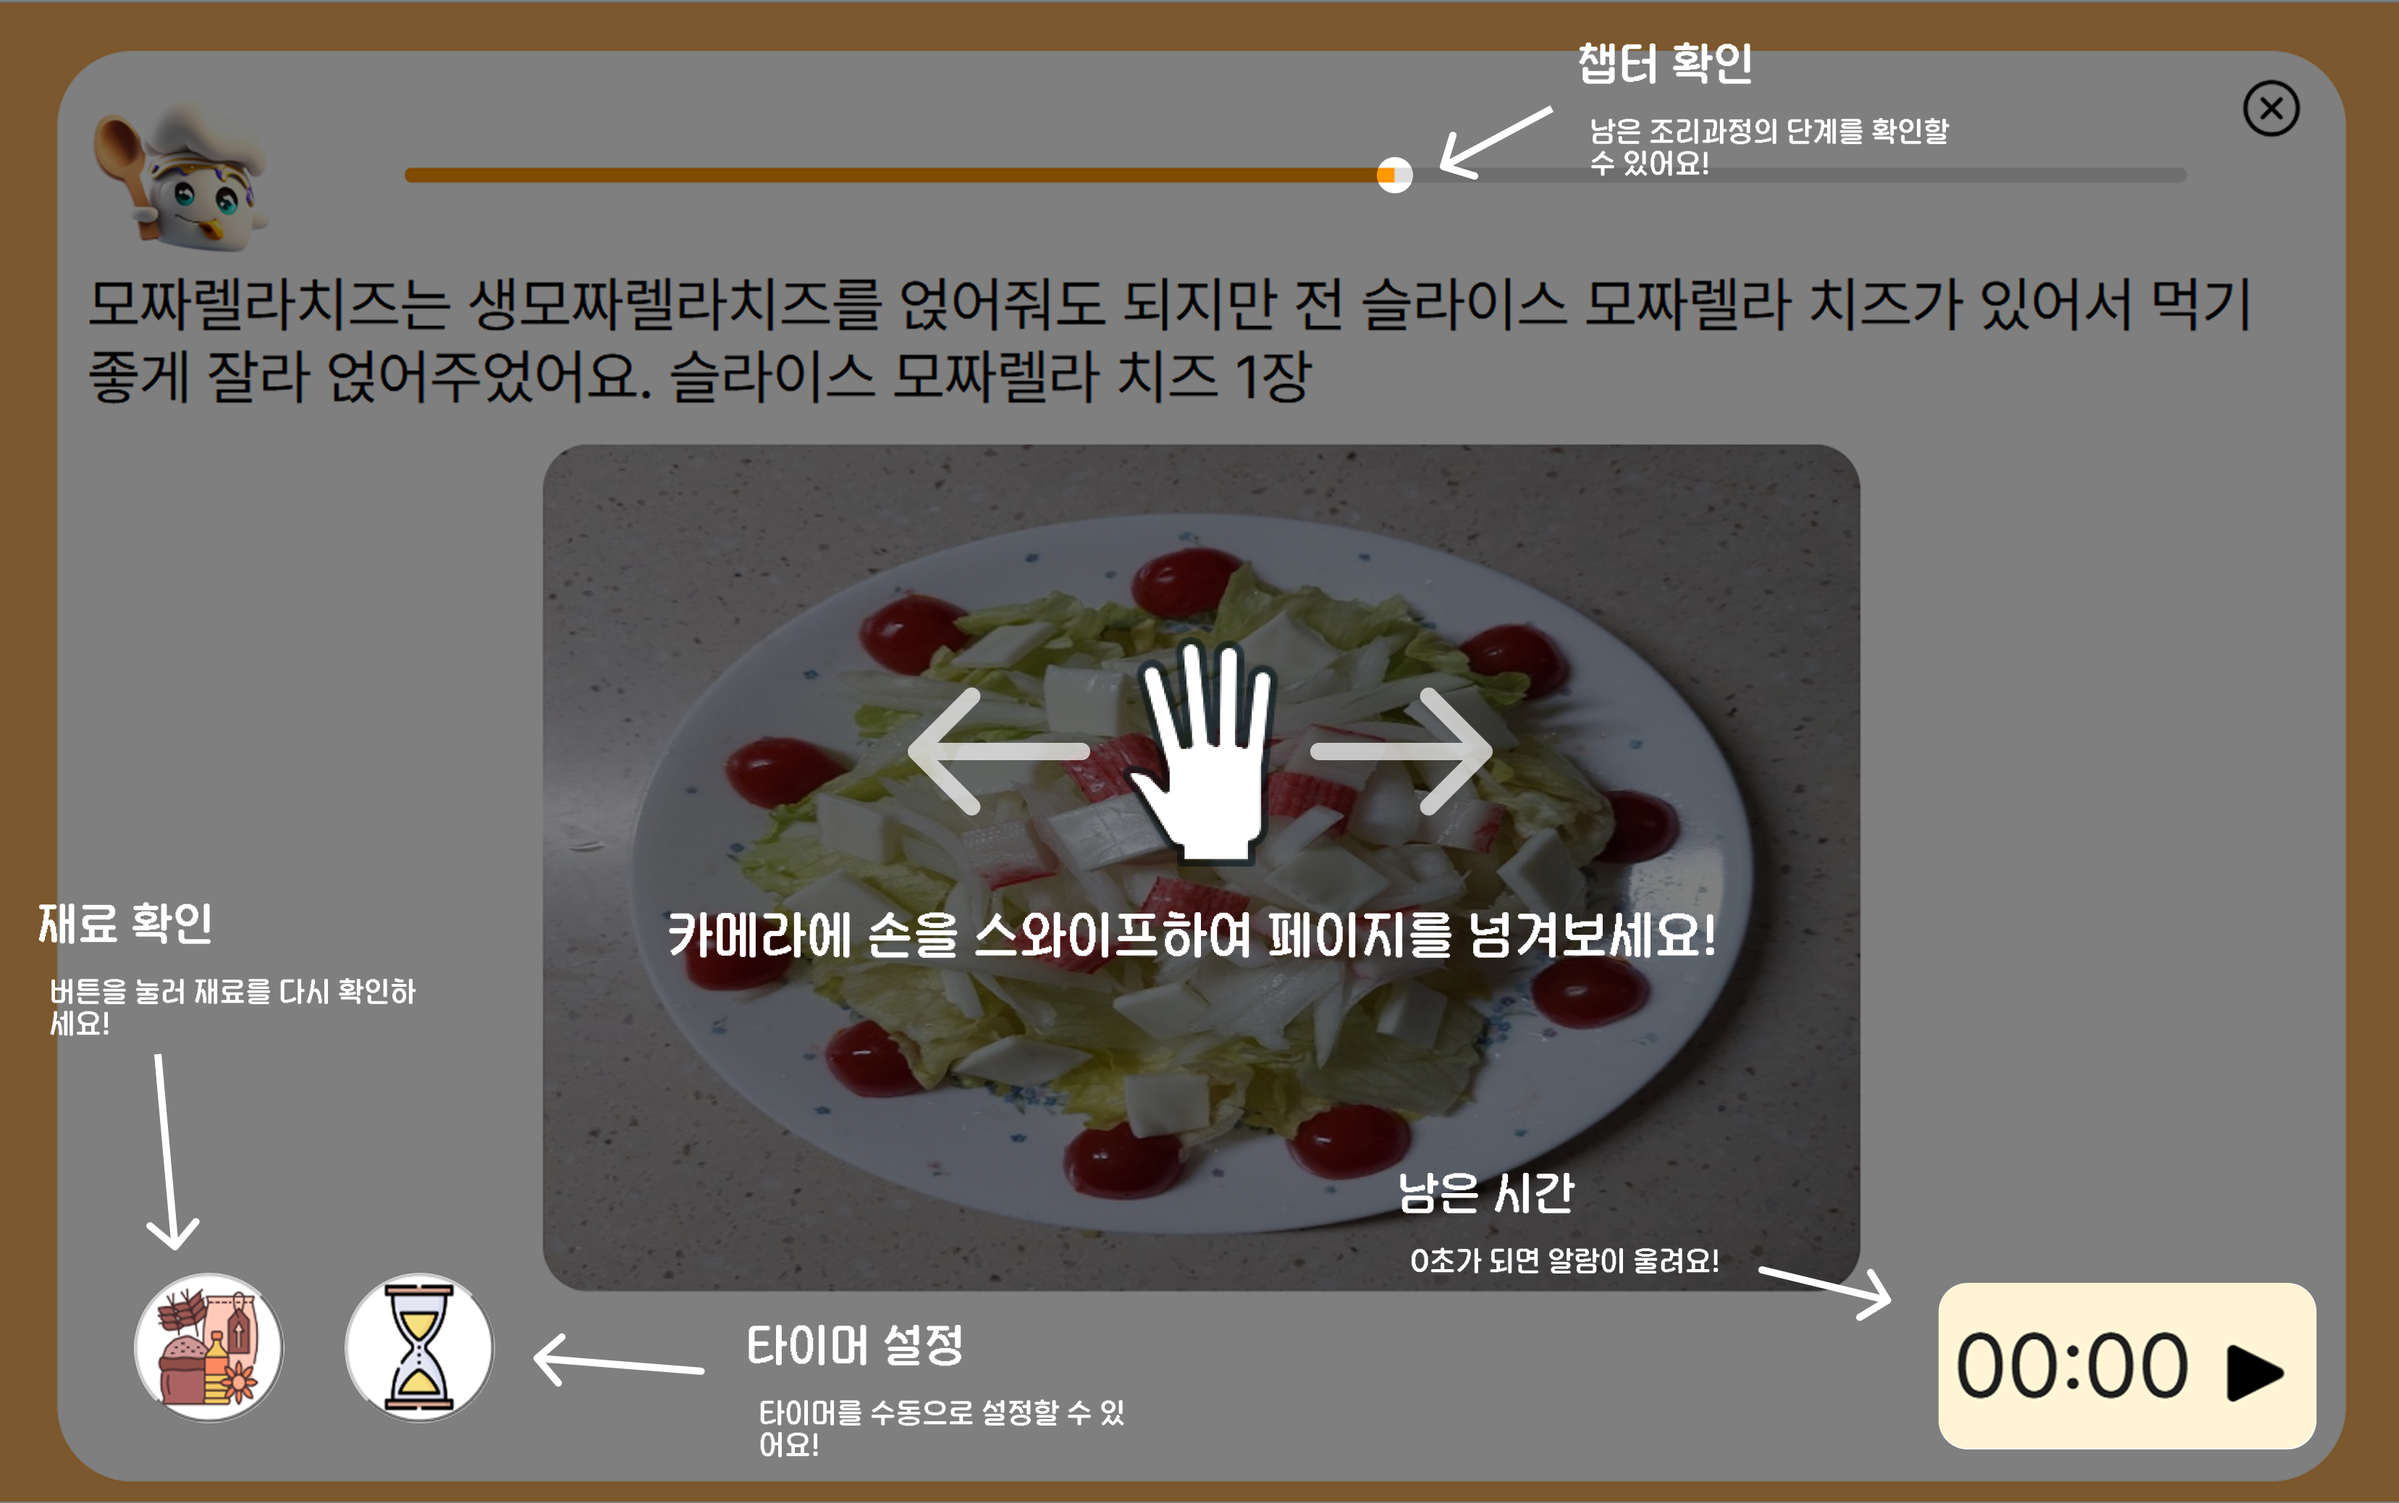
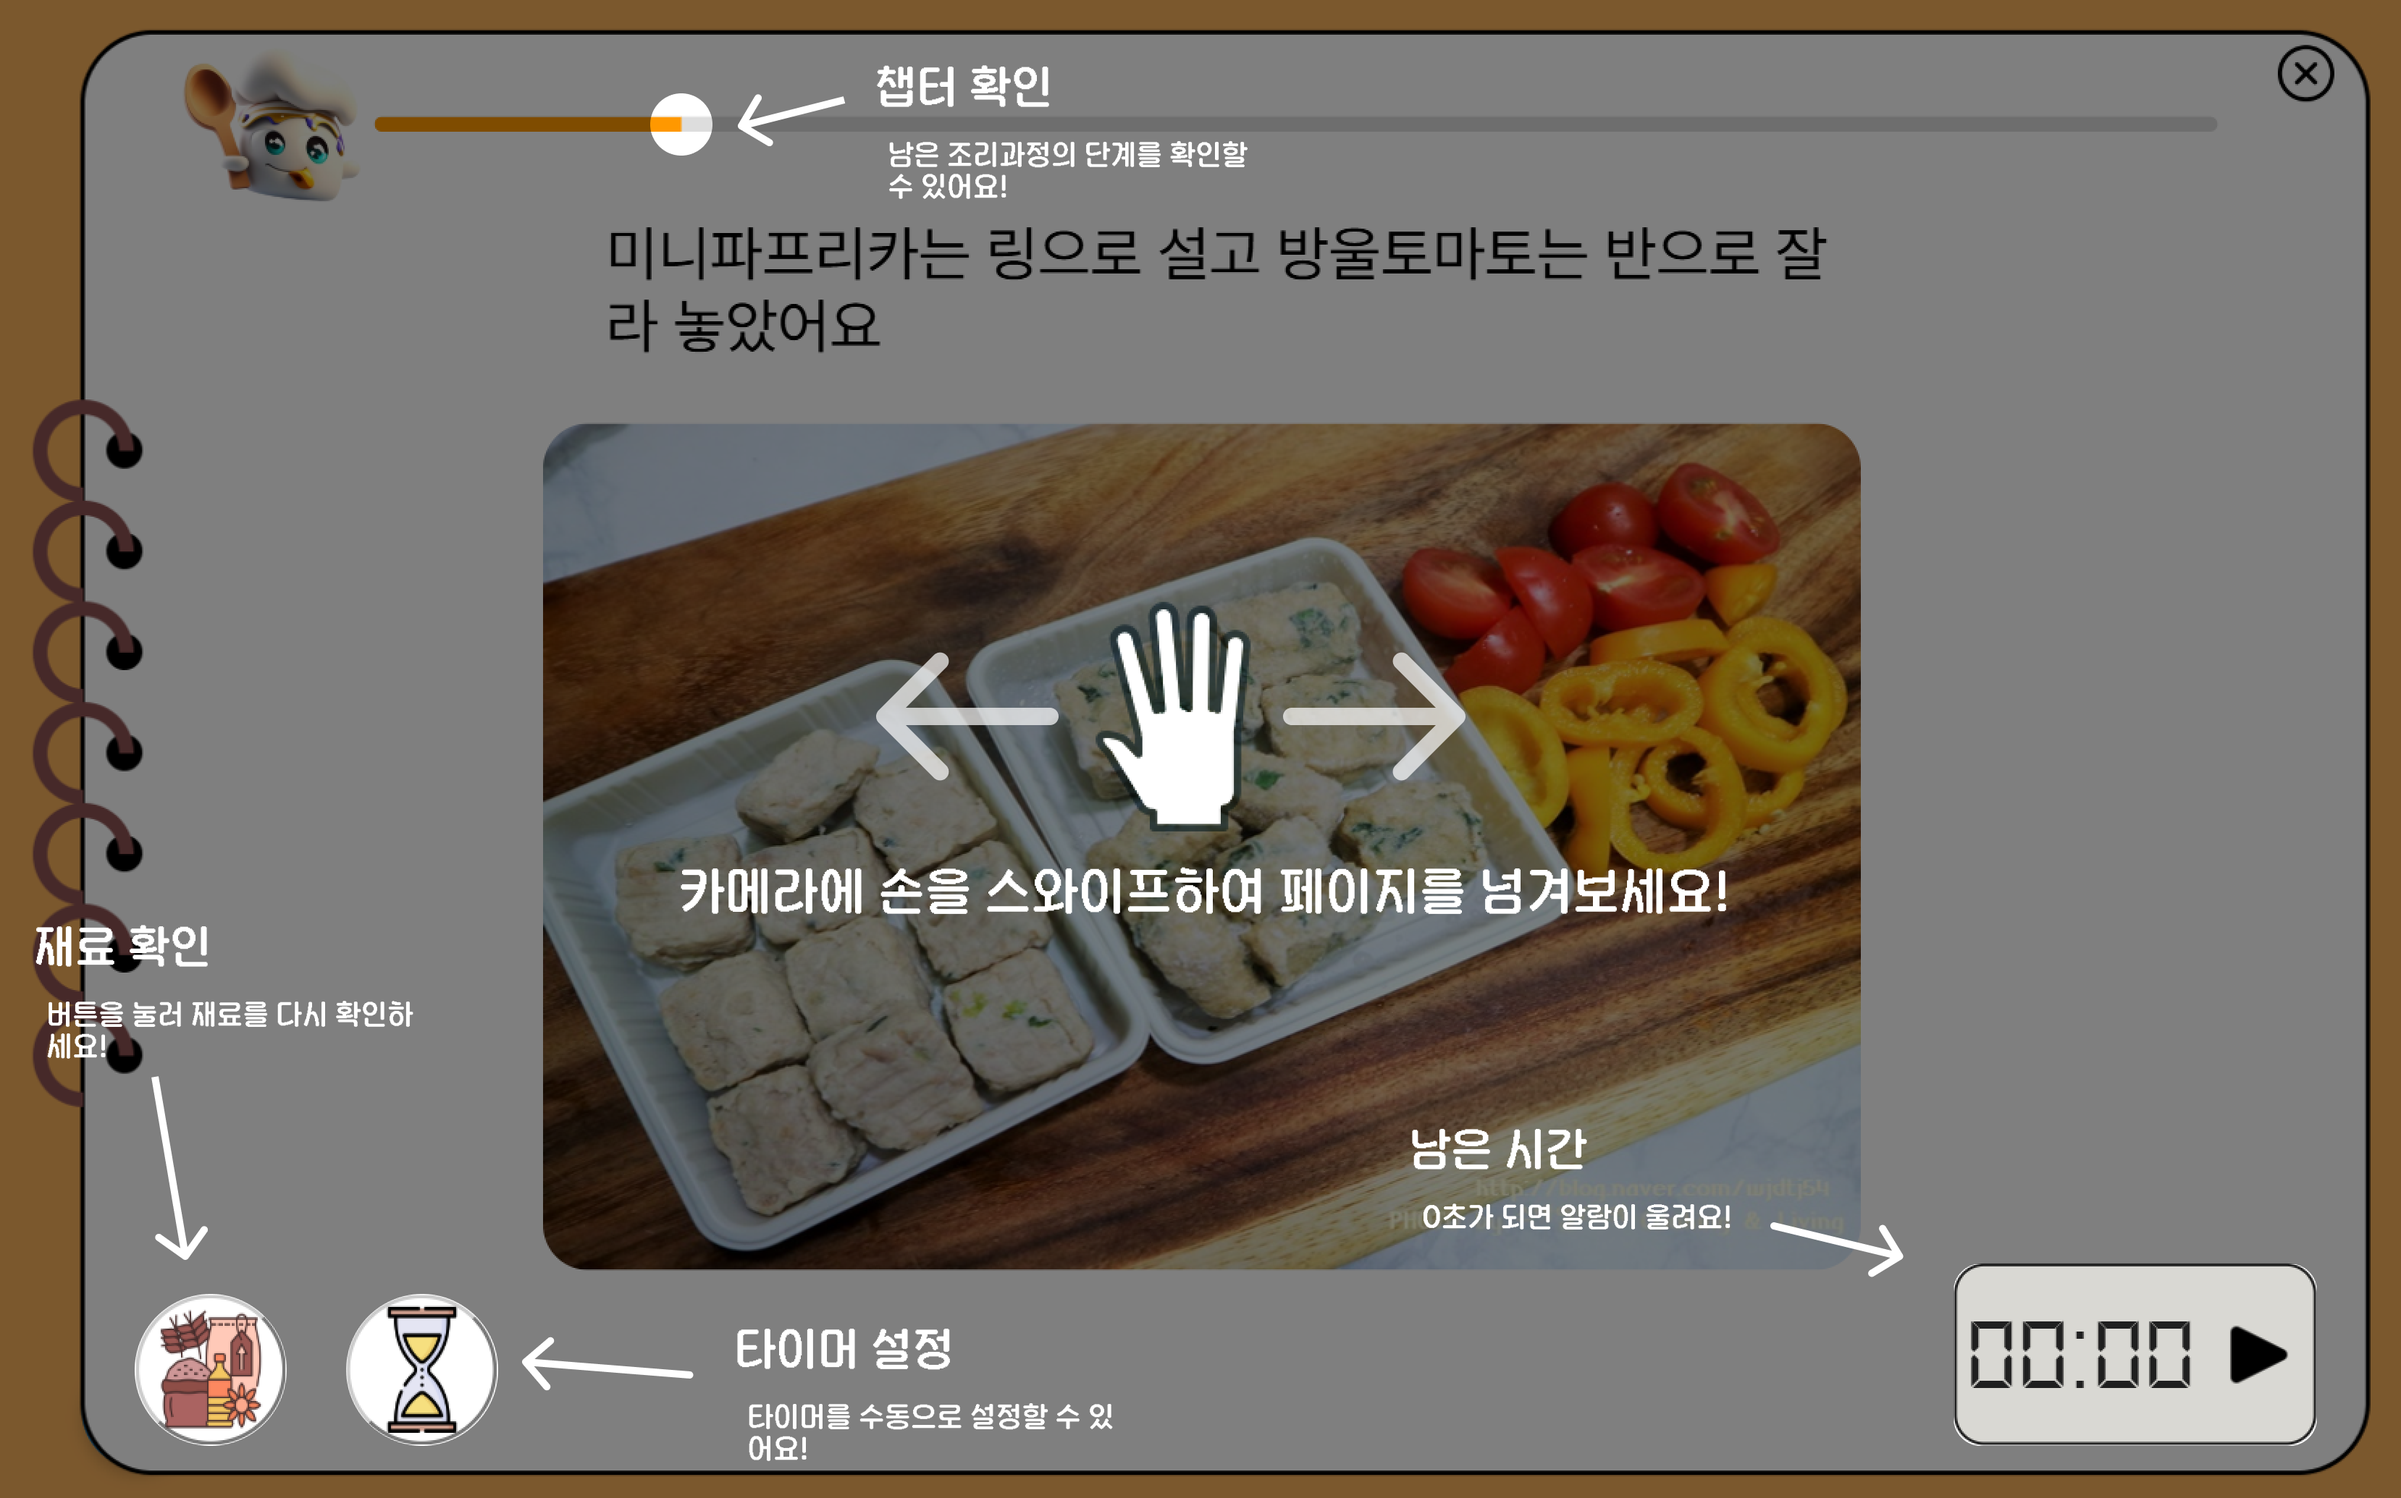
fix: cooking-diary

diff --git a/FE/ffood_thing/src/styles/recipe/RecipeInfo.css b/FE/ffood_thing/src/styles/recipe/RecipeInfo.css
@@ -1,16 +1,20 @@
 .card-div-info {
-  background-color: rgb(255, 255, 255);
-  width: 95%; /* Occupy the entire horizontal space */
+  /* background-color: rgb(255, 255, 255);
+  width: 95%; 
   height: 95%;
-  max-width: 100vw; /* Prevents overflow */
-  display: flex; /* Flexbox for child alignment */
-  flex-direction: column; /* Align children vertically */
-  justify-content: center; /* Center children horizontally */
-  margin-top: 20px !important;
+  max-width: 100vw; 
+  display: flex; 
+  flex-direction: column;
+  justify-content: center;
+
   margin-bottom: 30px;
-  border-radius: 40px; /* Rounded bottom corners */
+  border-radius: 40px;
   margin: 0 auto 20px;
-  padding: 2rem;
+  padding: 2rem; */
+  background-image: url("/images/frame.png");
+  background-size: 97% 96%; /* 이미지를 페이지 크기에 맞게 조절 */
+  background-position: center; /* 이미지를 중앙에 위치 */
+  background-repeat: no-repeat;
 }
 
 .recipeInfo-container {
@@ -93,13 +97,13 @@ header {
   color: rgb(117, 17, 17);
   position: absolute;
   top: 4%; /* 원하는 위치에 따라 값 조정 */
-  left: 4%; /* 원하는 위치에 따라 값 조정 */
+  left: 6%; /* 원하는 위치에 따라 값 조정 */
 }
 
 .recipe-details h1 {
+  margin-top: 0.5em;
   font-size: 4rem;
   font-weight: bolder;
-
   box-sizing: border-box; /* 패딩을 포함한 전체 너비 계산 */
   overflow: hidden;
   text-overflow: ellipsis;

diff --git a/FE/ffood_thing/src/styles/recipe/Welcome.css b/FE/ffood_thing/src/styles/recipe/Welcome.css
@@ -1,15 +1,13 @@
 .card-div-welcome {
-  background-color: rgb(255, 255, 255);
-  width: 95%; /* Occupy the entire horizontal space */
-  height: 95%;
-  max-width: 100vw; /* Prevents overflow */
-  display: flex; /* Flexbox for child alignment */
-  flex-direction: column; /* Align children vertically */
-  justify-content: center; /* Center children horizontally */
-  margin-top: 20px !important;
-  margin-bottom: 30px;
-  border-radius: 40px; /* Rounded bottom corners */
-  margin: 0 auto 20px;
+  background-image: url("/images/frame.png"); /* 이미지 경로 설정 */
+  background-size: 97% 96%; /* 이미지를 페이지 크기에 맞게 조절 */
+  background-position: center; /* 이미지를 중앙에 위치 */
+  background-repeat: no-repeat; /* 이미지 반복 방지 */
+  width: 100%; /* Occupy the entire horizontal space */
+  height: 100%;
+  display: flex; /* Flexbox 추가 */
+  align-items: center; /* 수직 가운데 정렬 */
+  justify-content: center; /* 수평 가운데 정렬 */
   padding: 2rem;
 }
 
@@ -18,9 +16,9 @@
   flex-direction: column;
   align-items: center; /* Center all elements */
   justify-content: center;
-  width: 100%;
-  height: 100%;
-  min-height: 80vh;
+  margin-left: 1.8em;
+  width: 93%;
+  height: 95%;
   background: linear-gradient(135deg, #fad6a0, #d97742); /* Warm orange gradient */
   border-radius: 20px;
   text-align: center;
